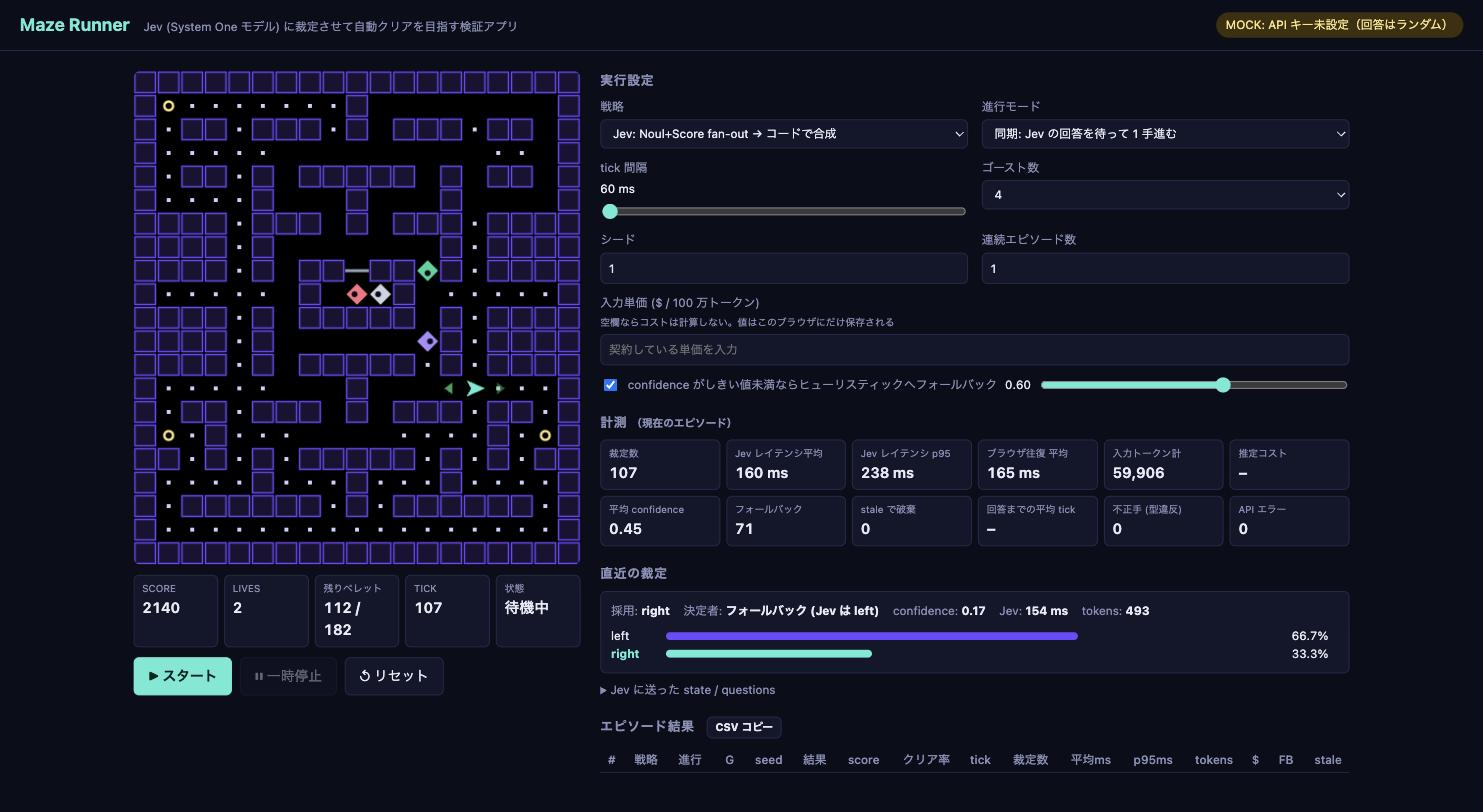
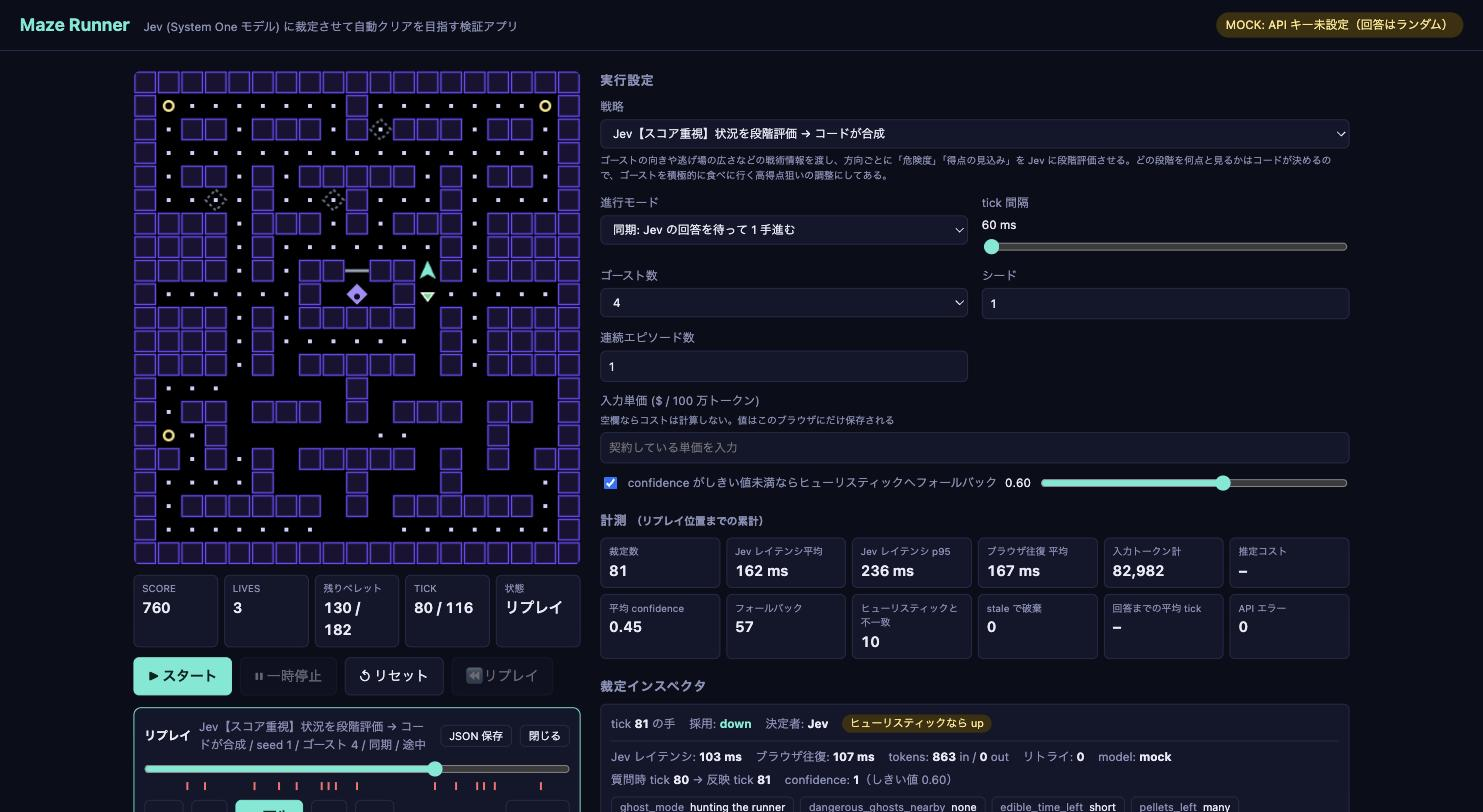
docs(maze-runner): refresh screenshots with replay and decision inspector
Both shots are taken in MOCK mode so no measured values from the service
appear in them.

diff --git a/apps/maze-runner/README.md b/apps/maze-runner/README.md
@@ -5,7 +5,9 @@
 
 ![Maze Runner の画面](docs/screenshot.jpg)
 
-*MOCK モード（API キーなし・回答はランダム）での画面。表示されているレイテンシや confidence はダミー値で、Jev の実測値ではない。*
+![リプレイと裁定インスペクタ](docs/screenshot-replay.jpg)
+
+*上: 全体（リプレイ中）。下: リプレイ操作と裁定インスペクタ。どちらも MOCK モード（API キーなし・回答はランダム）での画面で、表示されているレイテンシ・confidence・Jev の回答はダミー値であり、Jev の実測値ではない。*
 
 「制御フローとルールはコード、意味的な判断だけ Jev」という公式の設計方針（Harness Engineering / Real-time applications）を、
 レイテンシ・トークン量・confidence を計測しながら確かめるための検証アプリ。
